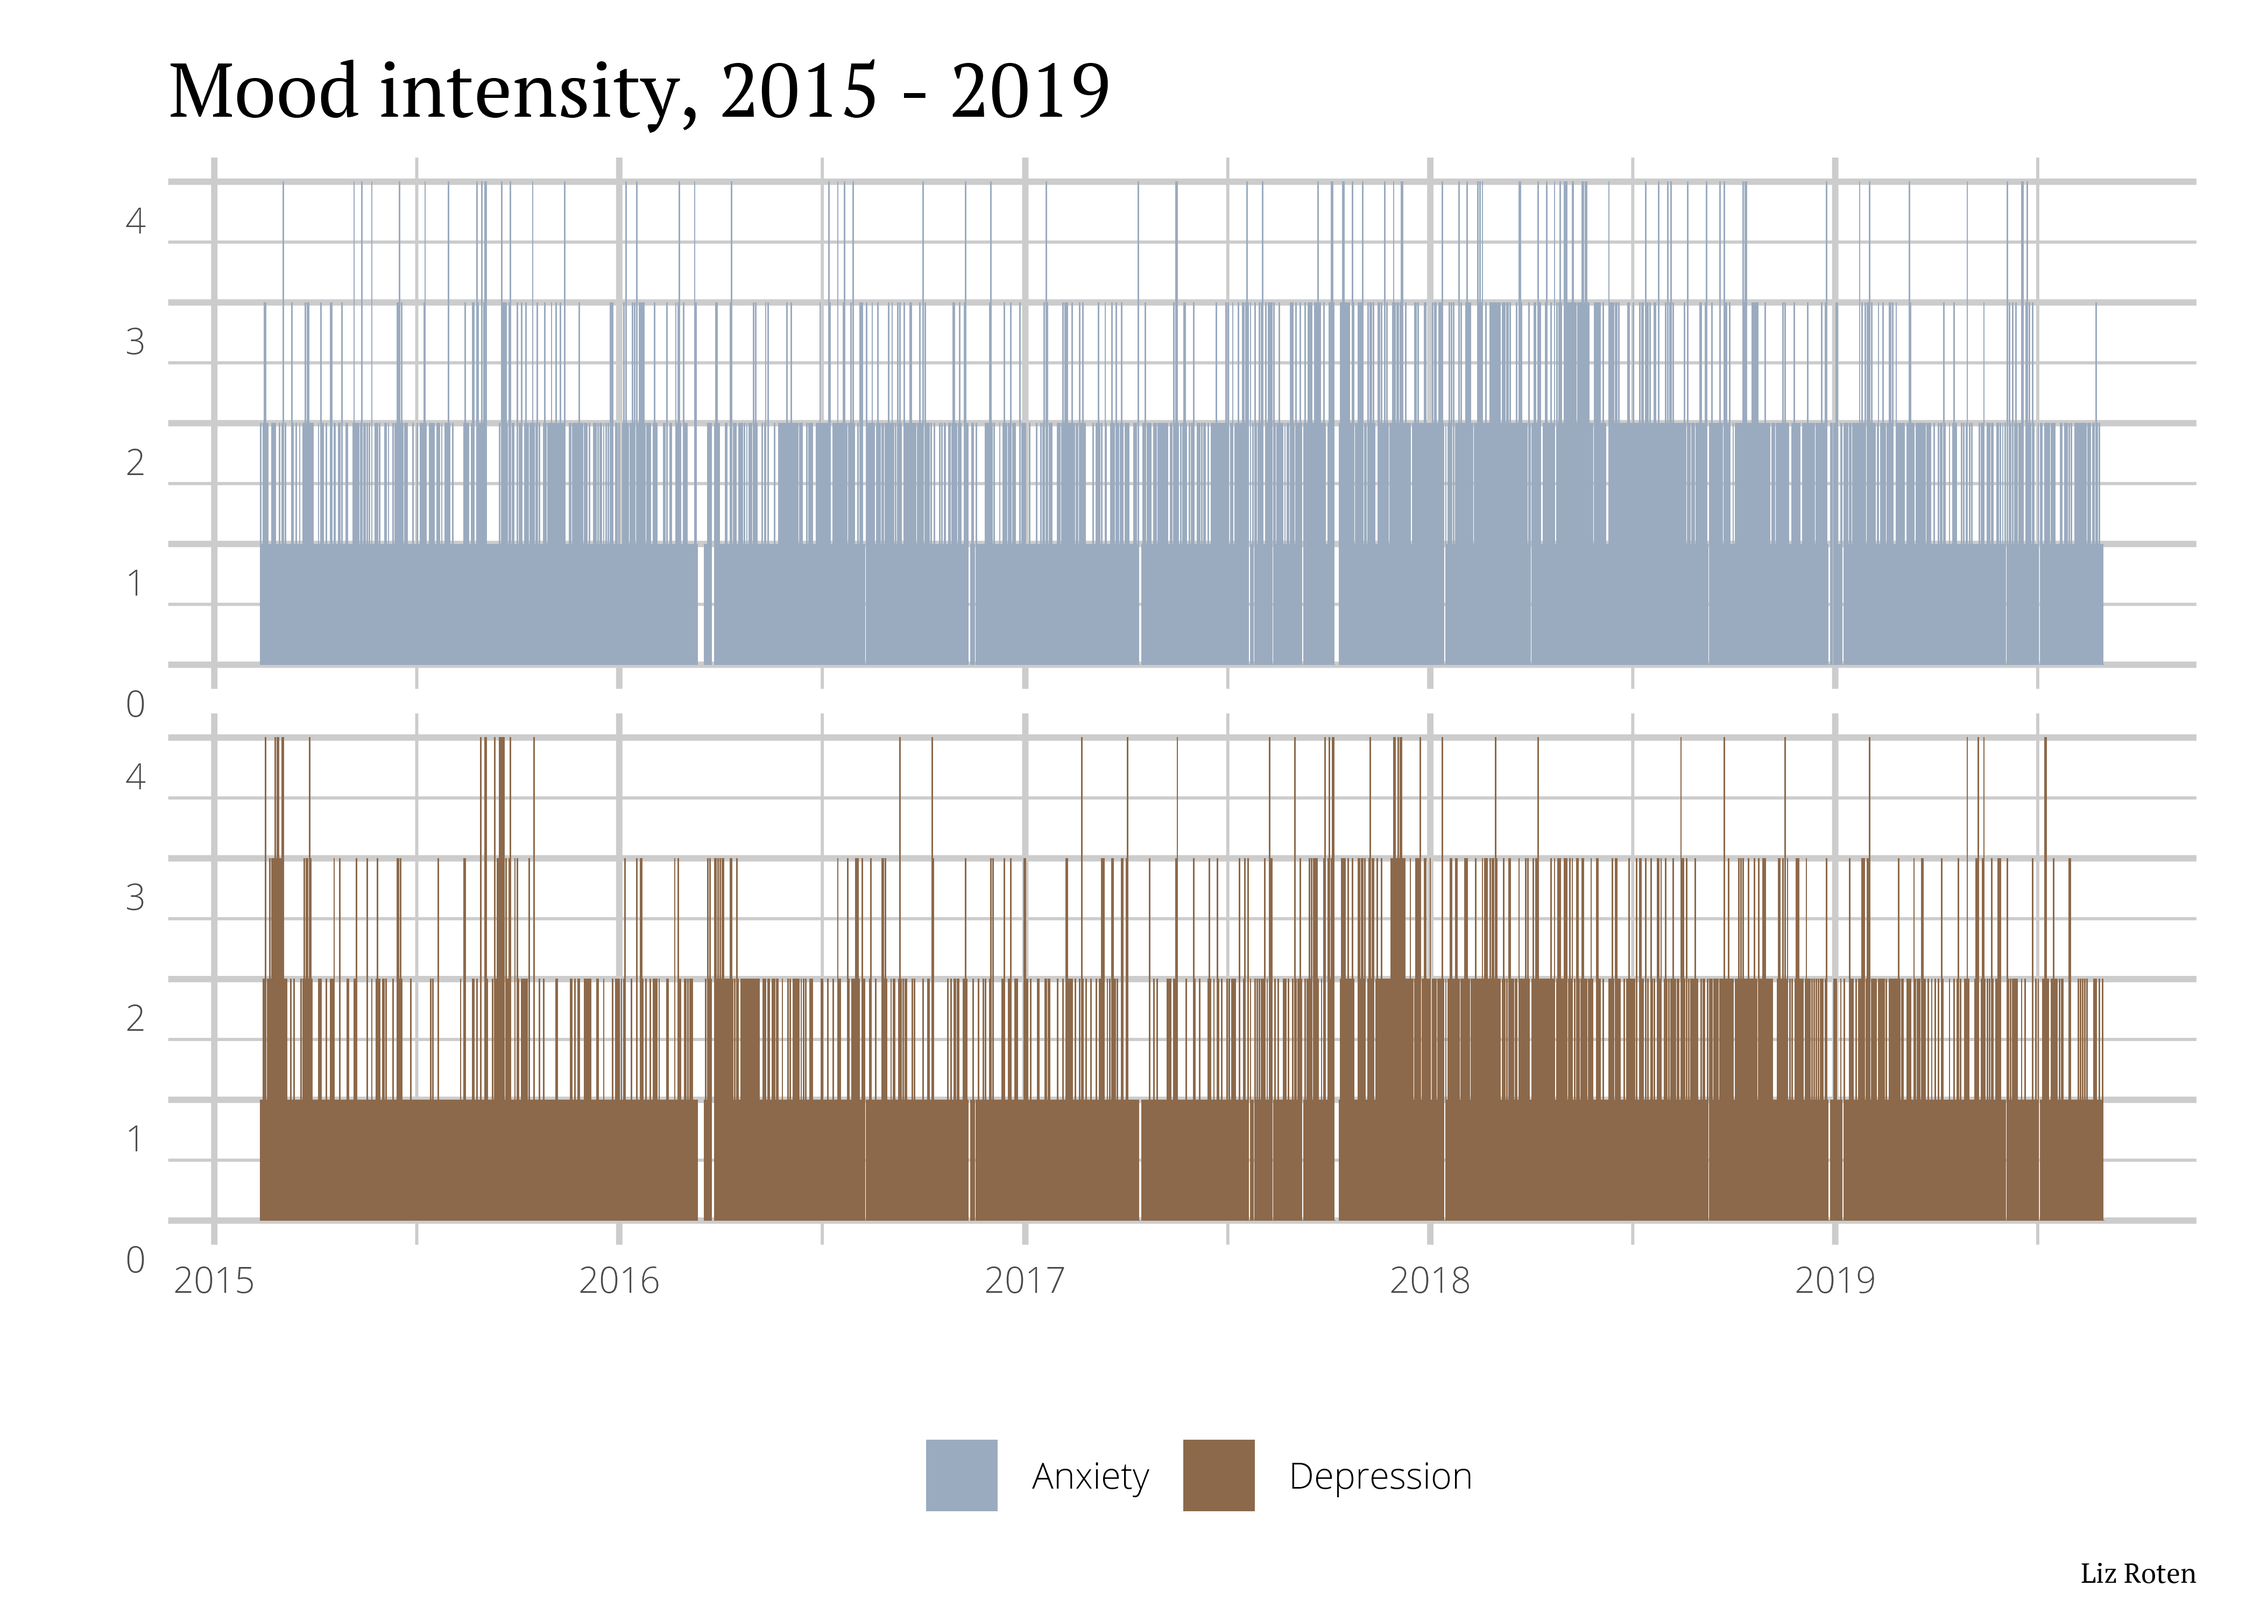
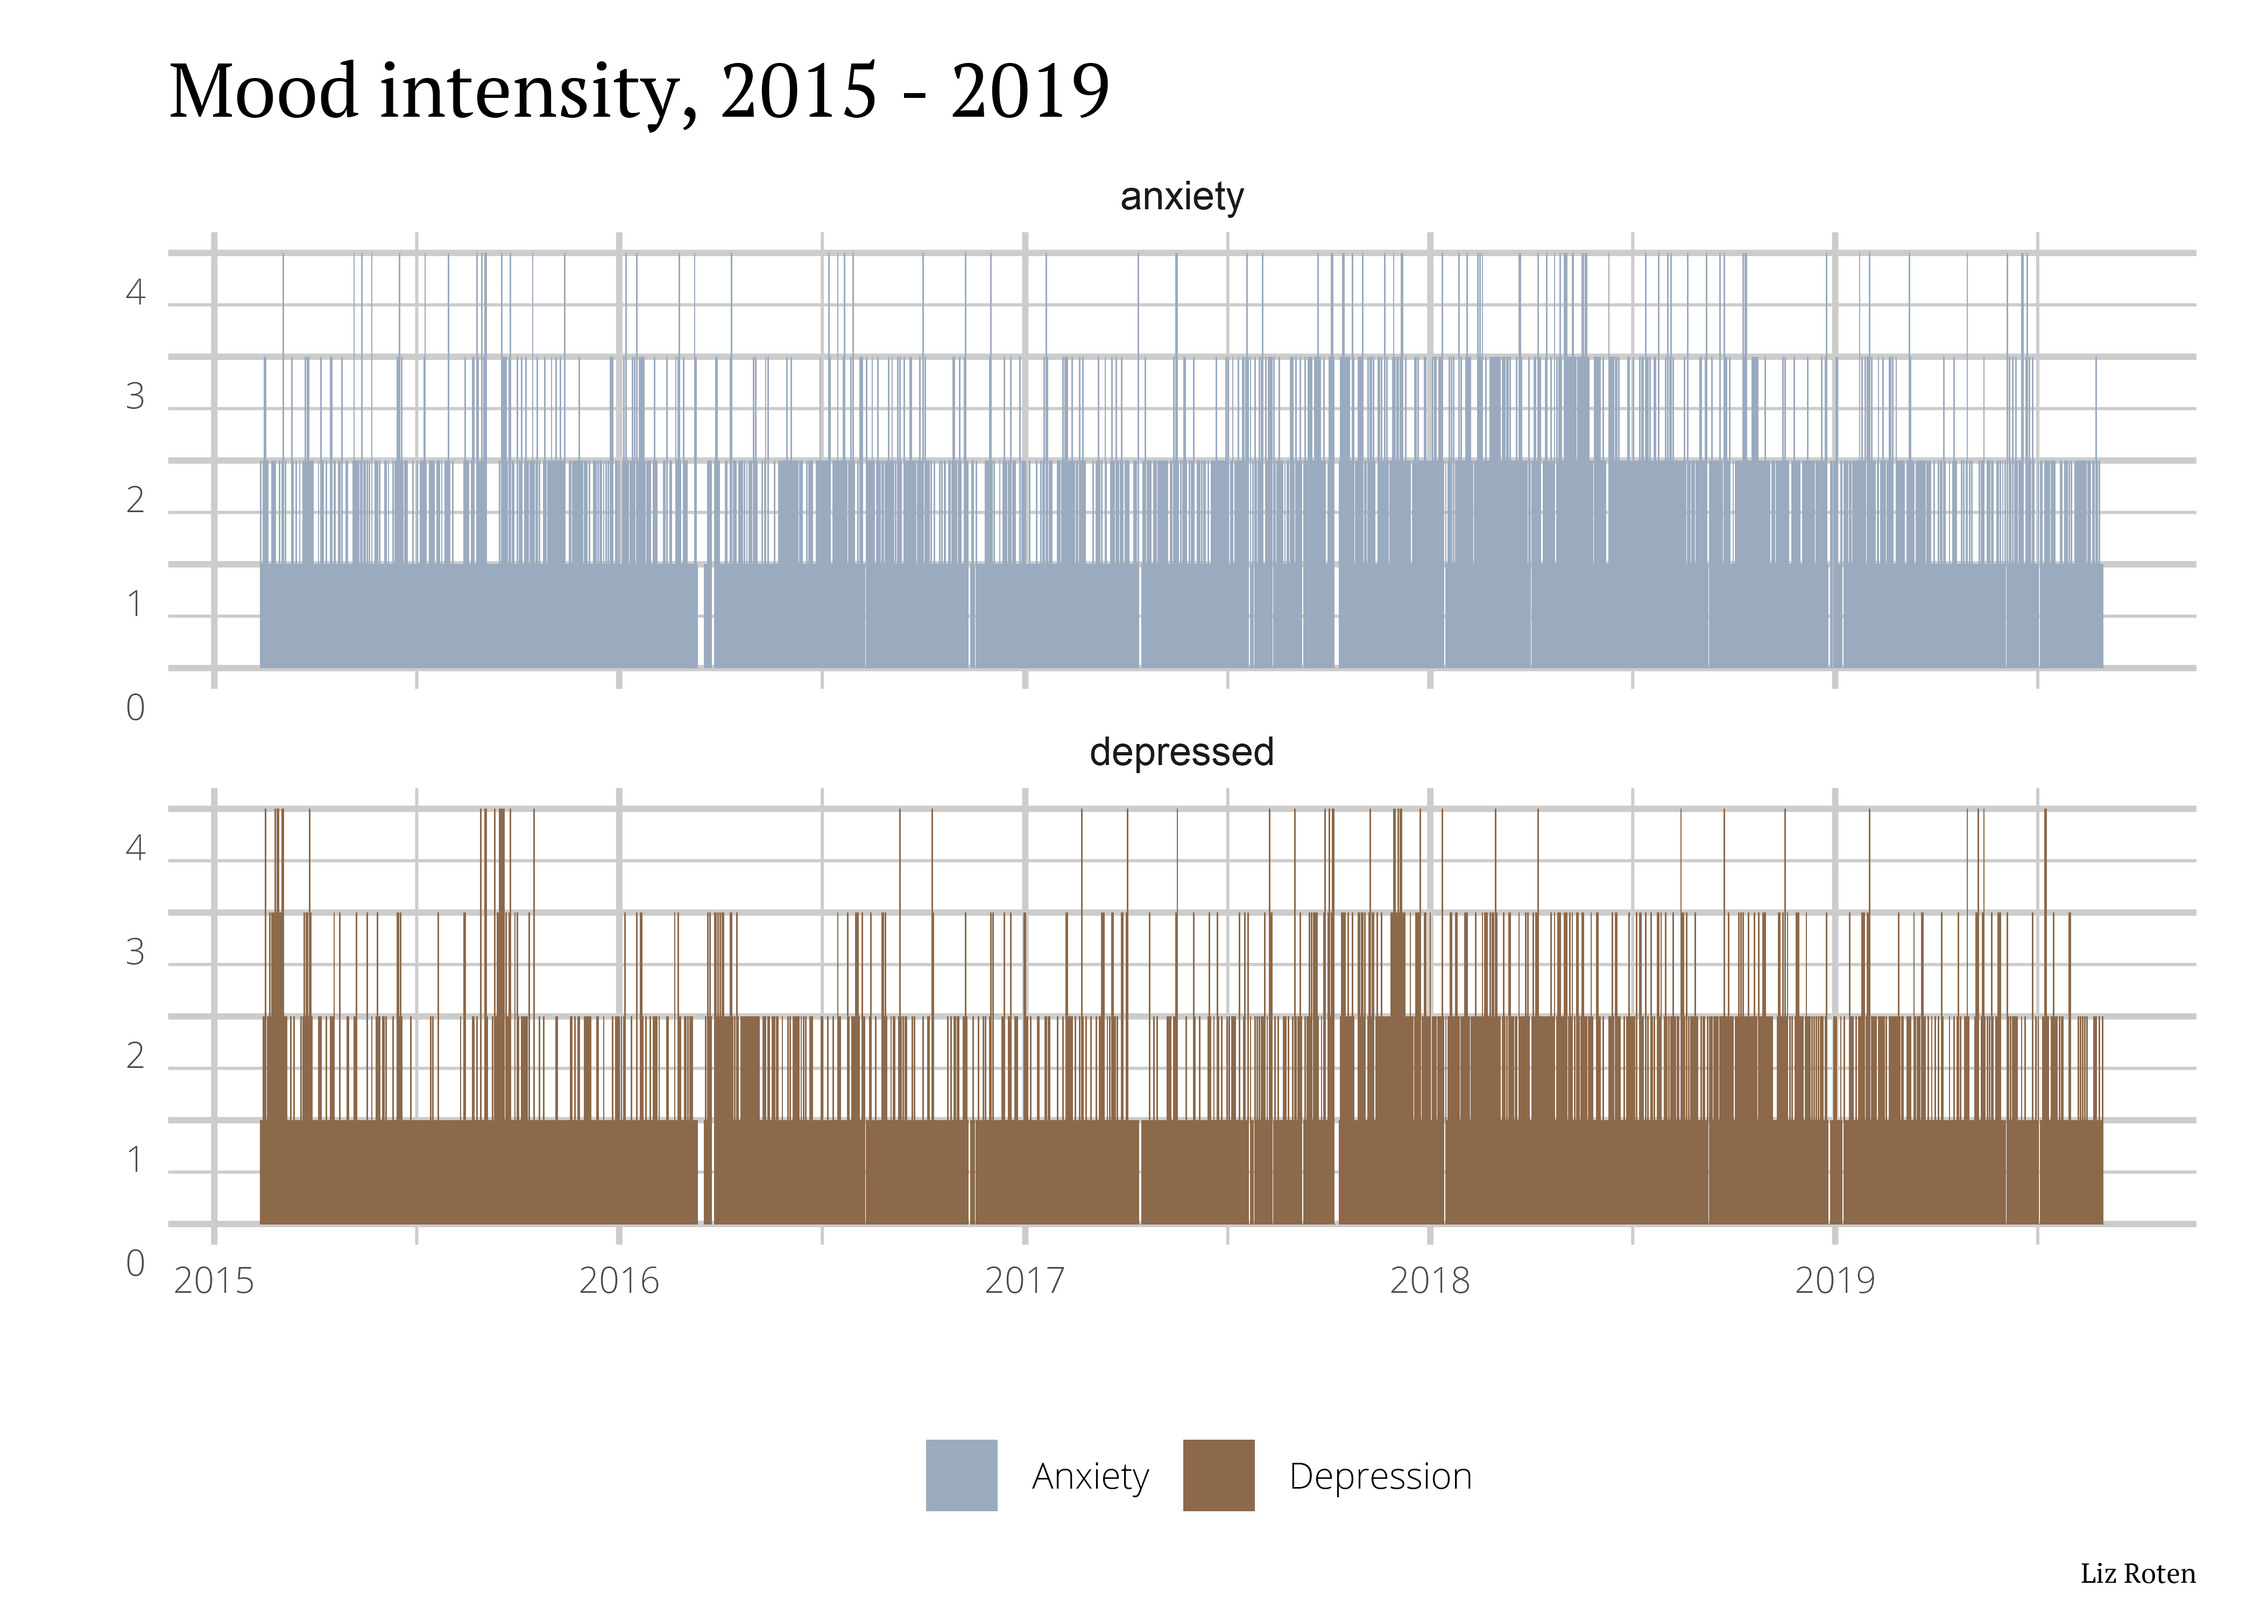
build site

Changed region(s): [[0.0624, 0.093, 0.9669, 0.775]]

diff --git a/public/posts/eMoods/emoods/index.html b/public/posts/eMoods/emoods/index.html
@@ -57,6 +57,16 @@
 		<div class="markdown">
 			
 
+<div id="TOC">
+<ul>
+<li><a href="#export-and-download-app-data">Export and download app data</a></li>
+<li><a href="#clean-and-tidy">Clean and tidy</a></li>
+<li><a href="#visualize-moods-over-time-with-ggplot2">Visualize moods over time with ggplot2</a></li>
+<li><a href="#custom-styles">Custom styles</a></li>
+<li><a href="#october-2019-update-now-with-gganimate">October 2019 update: now with gganimate!</a></li>
+<li><a href="#inspiration-and-credits">Inspiration and credits</a></li>
+</ul>
+</div>
 
 <p>Things I love include data visualization, tutorials, and fighting mental illness stigma. This post combines them all! I made a pretty neat <a href="https://lizroten.info/portfolio/3-years-of-mental-health-a-quantified-self-story/">layout</a> with plots and a map of my Location History a while back, and here I’ll walk through some of the data cleaning process and custom styling.</p>
 <div id="export-and-download-app-data" class="section level2">
@@ -200,16 +210,16 @@ ggplot(data = entry) +
   filter(year == &quot;2018&quot;) %&gt;%
   group_by(date) %&gt;%
   gather(&quot;depressed&quot;, &quot;anxiety&quot;,
-    &quot;elevated&quot;, &quot;irritability&quot;,
-    key = &quot;mood&quot;, value = &quot;intensity&quot;
+         &quot;elevated&quot;, &quot;irritability&quot;,
+         key = &quot;mood&quot;, value = &quot;intensity&quot;
   ) %&gt;%
   select(date, mood, intensity)
 
 plot_data &lt;- entry %&gt;%
   group_by(date) %&gt;%
   gather(&quot;depressed&quot;, &quot;anxiety&quot;,
-    &quot;elevated&quot;, &quot;irritability&quot;,
-    key = &quot;mood&quot;, value = &quot;intensity&quot;
+         &quot;elevated&quot;, &quot;irritability&quot;,
+         key = &quot;mood&quot;, value = &quot;intensity&quot;
   ) %&gt;%
   select(date, mood, intensity) %&gt;%
   filter(mood %in% c(&quot;depressed&quot;, &quot;anxiety&quot;))</code></pre>
@@ -263,7 +273,7 @@ my_theme &lt;- function(...) {
                            size = size_header),
       plot.caption = element_text(size = size_caption),
       ### axis and strip text ------------------------------
-      strip.text = element_blank(),
+      # strip.text = element_blank(),
       axis.title = element_text(size = size_axis_title),
       axis.text = element_text(
         family = &quot;Open Sans Light&quot;,
@@ -290,8 +300,8 @@ my_theme &lt;- function(...) {
     color = NA
   ) +
   facet_wrap(&quot;mood&quot;,
-    nrow = 2,
-    ncol = 1
+             nrow = 2,
+             ncol = 1
   ) +
   scale_fill_manual(
     values = my_colors,
@@ -351,8 +361,8 @@ my_theme &lt;- function(...) {
     color = NA
   ) +
   facet_wrap(&quot;mood&quot;,
-    nrow = 2,
-    ncol = 2
+             nrow = 2,
+             ncol = 2
   ) +
   scale_x_date(
     date_breaks = &quot;1 months&quot;,
@@ -381,6 +391,103 @@ my_theme &lt;- function(...) {
   my_theme()</code></pre>
 <p><img src="../../../posts/eMoods/2019-08-31-emoods_files/figure-html/unnamed-chunk-14-1.png" width="2100" /></p>
 <p>There is much more I want to do with this data, like examining different seasons, how sleep and therpay influence depression and anxiety, and how medication adjustments played out.</p>
+</div>
+<div id="october-2019-update-now-with-gganimate" class="section level2">
+<h2>October 2019 update: now with gganimate!</h2>
+<p>I’ve made a series of iterative plots for work, and I finally decided to try <a href="https://gganimate.com/">gganimate</a>. Friends, I may never go back.</p>
+<pre class="r"><code>library(gganimate)</code></pre>
+<pre class="r"><code>ggplot(data = plot_data %&gt;% 
+         filter(year(date) == 2018)) +
+  geom_bar(
+    mapping = aes(
+      x = date,
+      y = intensity,
+      fill = mood,
+      group = 1L),
+    stat = &quot;identity&quot;,
+    color = NA
+  ) +
+  # facet_wrap(&quot;mood&quot;,
+  #   nrow = 2,
+  #   ncol = 1
+  # ) +
+  scale_fill_manual(
+    values = my_colors,
+    aesthetics = c(&quot;fill&quot;),
+    labels = c(
+      &quot;Anxiety&quot;,
+      &quot;Depression&quot;
+    )
+  ) +
+  labs(
+    x = &quot;&quot;,
+    y = &quot;&quot;,
+    fill = &quot;&quot;,
+    caption = &quot;Liz Roten&quot;
+  ) +
+  my_theme() +
+  theme(
+    legend.position = &quot;none&quot;
+  ) + 
+  transition_states(mood,
+                    transition_length = 2,
+                    state_length = 1) +
+  ggtitle(&quot;Moood intensity, 2018&quot;,
+          subtitle = &#39;{closest_state}&#39;)</code></pre>
+<p><img src="../../../eMoods/2019-08-31-emoods_files/2018_moods.gif" /></p>
+<p>Lets take a look at seaons. Lets find the total intensity grouped by year, season, and mood.</p>
+<pre class="r"><code>plot_seaons &lt;- entry %&gt;% 
+  group_by(date) %&gt;%
+  gather(&quot;depressed&quot;, &quot;anxiety&quot;,
+         &quot;elevated&quot;, &quot;irritability&quot;,
+         key = &quot;mood&quot;, value = &quot;intensity&quot;
+  ) %&gt;%
+  select(date, mood, intensity) %&gt;% 
+  mutate(year = year(date)) %&gt;% 
+  mutate(season = case_when(month(date) %in% c(&quot;12&quot;, &quot;1&quot;, &quot;2&quot;) ~ &quot;Winter&quot;,
+                            month(date) %in% c(&quot;3&quot;, &quot;4&quot;, &quot;5&quot;) ~ &quot;Spring&quot;,
+                            month(date) %in% c(&quot;6&quot;, &quot;7&quot;, &quot;8&quot;) ~ &quot;Summer&quot;,
+                            month(date) %in% c(&quot;9&quot;, &quot;10&quot;, &quot;11&quot;) ~ &quot;Fall&quot;)) %&gt;% 
+  group_by(year, season, mood) %&gt;% 
+  mutate(total_mood = sum(intensity)) %&gt;% 
+  select(-date, -intensity) %&gt;% 
+  unique()</code></pre>
+<pre class="r"><code>ggplot(data = plot_seaons %&gt;% 
+         filter(!year %in% c(2015, 2019))) +
+  geom_bar(
+    mapping = aes(
+      x = mood,
+      y = total_mood,
+      fill = mood,
+      group = 1L),
+    stat = &quot;identity&quot;,
+    color = NA
+  ) +
+  scale_fill_manual(
+    values = my_colors, 
+    labels = c(&quot;Anxiety&quot;,
+               &quot;Depressiion&quot;,
+               &quot;Elevation&quot;,
+               &quot;Irritability&quot;)
+  ) +
+  facet_wrap(~year,
+             nrow = 3,strip.position = &quot;top&quot;) +
+  labs(
+    x = &quot;&quot;,
+    y = &quot;&quot;,
+    fill = &quot;&quot;,
+    caption = &quot;Liz Roten&quot;
+  ) +
+  my_theme() +
+  theme(
+    legend.position = &quot;right&quot;,
+    axis.text.x = element_blank(),
+  ) + 
+  transition_states(season,
+                    transition_length = 2,
+                    state_length = 3) +
+  ggtitle(&quot;Mood intensity, {closest_state}&quot;)</code></pre>
+<p><img src="../../../eMoods/2019-08-31-emoods_files/moods_by_season_year.gif" /></p>
 </div>
 <div id="inspiration-and-credits" class="section level2">
 <h2>Inspiration and credits</h2>

diff --git a/public/tags/gganimate/index.html b/public/tags/gganimate/index.html
@@ -1,0 +1,72 @@
+<!DOCTYPE html>
+<html>
+<head>
+	<meta charset="utf-8" />
+	<meta http-equiv="X-UA-Compatible" content="IE=edge"><title>gganimate - Liz Roten</title><meta name="viewport" content="width=device-width, initial-scale=1">
+	<link rel="alternate" type="application/rss+xml" href="https://lizrotenblog.netlify.com/tags/gganimate/index.xml" title="Liz Roten" />
+	<meta property="og:title" content="gganimate" />
+<meta property="og:description" content="" />
+<meta property="og:type" content="website" />
+<meta property="og:url" content="https://lizrotenblog.netlify.com/tags/gganimate/" />
+
+<meta property="og:updated_time" content="2019-08-31T00:00:00+00:00" />
+<meta name="twitter:card" content="summary"/>
+<meta name="twitter:title" content="gganimate"/>
+<meta name="twitter:description" content=""/>
+<link href="https://fonts.googleapis.com/css?family=Ubuntu:300,400,300italic,400italic|Raleway:500,100,300" rel="stylesheet">
+	<link rel="stylesheet" href="//fonts.googleapis.com/css?family=Roboto:400,300,700,400italic">
+<link rel="stylesheet" href="//fonts.googleapis.com/css?family=Libre+Baskerville:400,300,700,400">
+<link rel="stylesheet" href="//fonts.googleapis.com/css?family=Source+Sans+Pro:400,300,700,400">
+<link rel="stylesheet" href="//fonts.googleapis.com/css?family=PT+Serif:400,300,700,400">
+<link rel="stylesheet" href="//fonts.googleapis.com/css?family=Didact+Gothic:400,300,700,400">
+	<link rel="stylesheet" type="text/css" media="screen" href="../../css/normalize.css" />
+	<link rel="stylesheet" type="text/css" media="screen" href="../../css/main.css" />
+	<link rel="stylesheet" type="text/css" media="screen" href="../../css/custom.css" />
+	<link rel="stylesheet" type="text/css" media="screen" href="../../css/style.orange.css" /><script src="../../js/main.js"></script>
+</head>
+
+
+<body>
+	<div class="container wrapper list">
+		<div class="header">
+	<h1 class="site-title">Liz Roten</h1>
+	<div class="site-description"><h2></h2><nav class="nav social">
+			<ul class="flat"></ul>
+		</nav>
+	</div>
+
+	<nav class="nav">
+		<ul class="flat">
+			
+			<li>
+				<a href="https://lizroten.info">Home</a>
+			</li>
+			
+			<li>
+				<a href="https://lizroten.info/blog/posts">All posts</a>
+			</li>
+			
+		</ul>
+	</nav>
+</div>
+
+
+		
+			<h1>Entries tagged - "gganimate"</h1>
+		
+
+		<ul class="posts"><li class="post">
+				<a href="../../posts/emoods/emoods/">Visualizing mental health data with ggplot2</a> <span class="meta">Aug 31, 2019</span>
+			</li></ul>
+	</div>
+
+	<div class="footer wrapper">
+	<nav class="nav">
+		<div><a href="https://github.com/vividvilla/ezhil">Ezhil theme</a> | Built with <a href="https://gohugo.io">Hugo</a></div>
+	</nav>
+</div>
+
+
+</body>
+
+</html>

diff --git a/static/css/custom.css b/static/css/custom.css
@@ -86,10 +86,17 @@ p.social a:hover {
 }
 
 code {
-	padding: 2px 4px;
 	font-size: 90%;
 	color: #62262D;
 	border-radius: 4px;
+}
+
+
+code, kbd, pre, samp {
+	font-family: monospace,monospace;
+	font-size: 1em;
+	background: #e6e6e6;
+	padding: 4px;
 }
 
 .content-column-content {

diff --git a/public/tags/index.html b/public/tags/index.html
@@ -68,6 +68,10 @@
 		
 			
 			
+			<a style="font-size: 1rem;" href="https://lizrotenblog.netlify.com/tags/gganimate/">gganimate</a>
+		
+			
+			
 			<a style="font-size: 1rem;" href="https://lizrotenblog.netlify.com/tags/ggplot2/">ggplot2</a>
 		
 			
